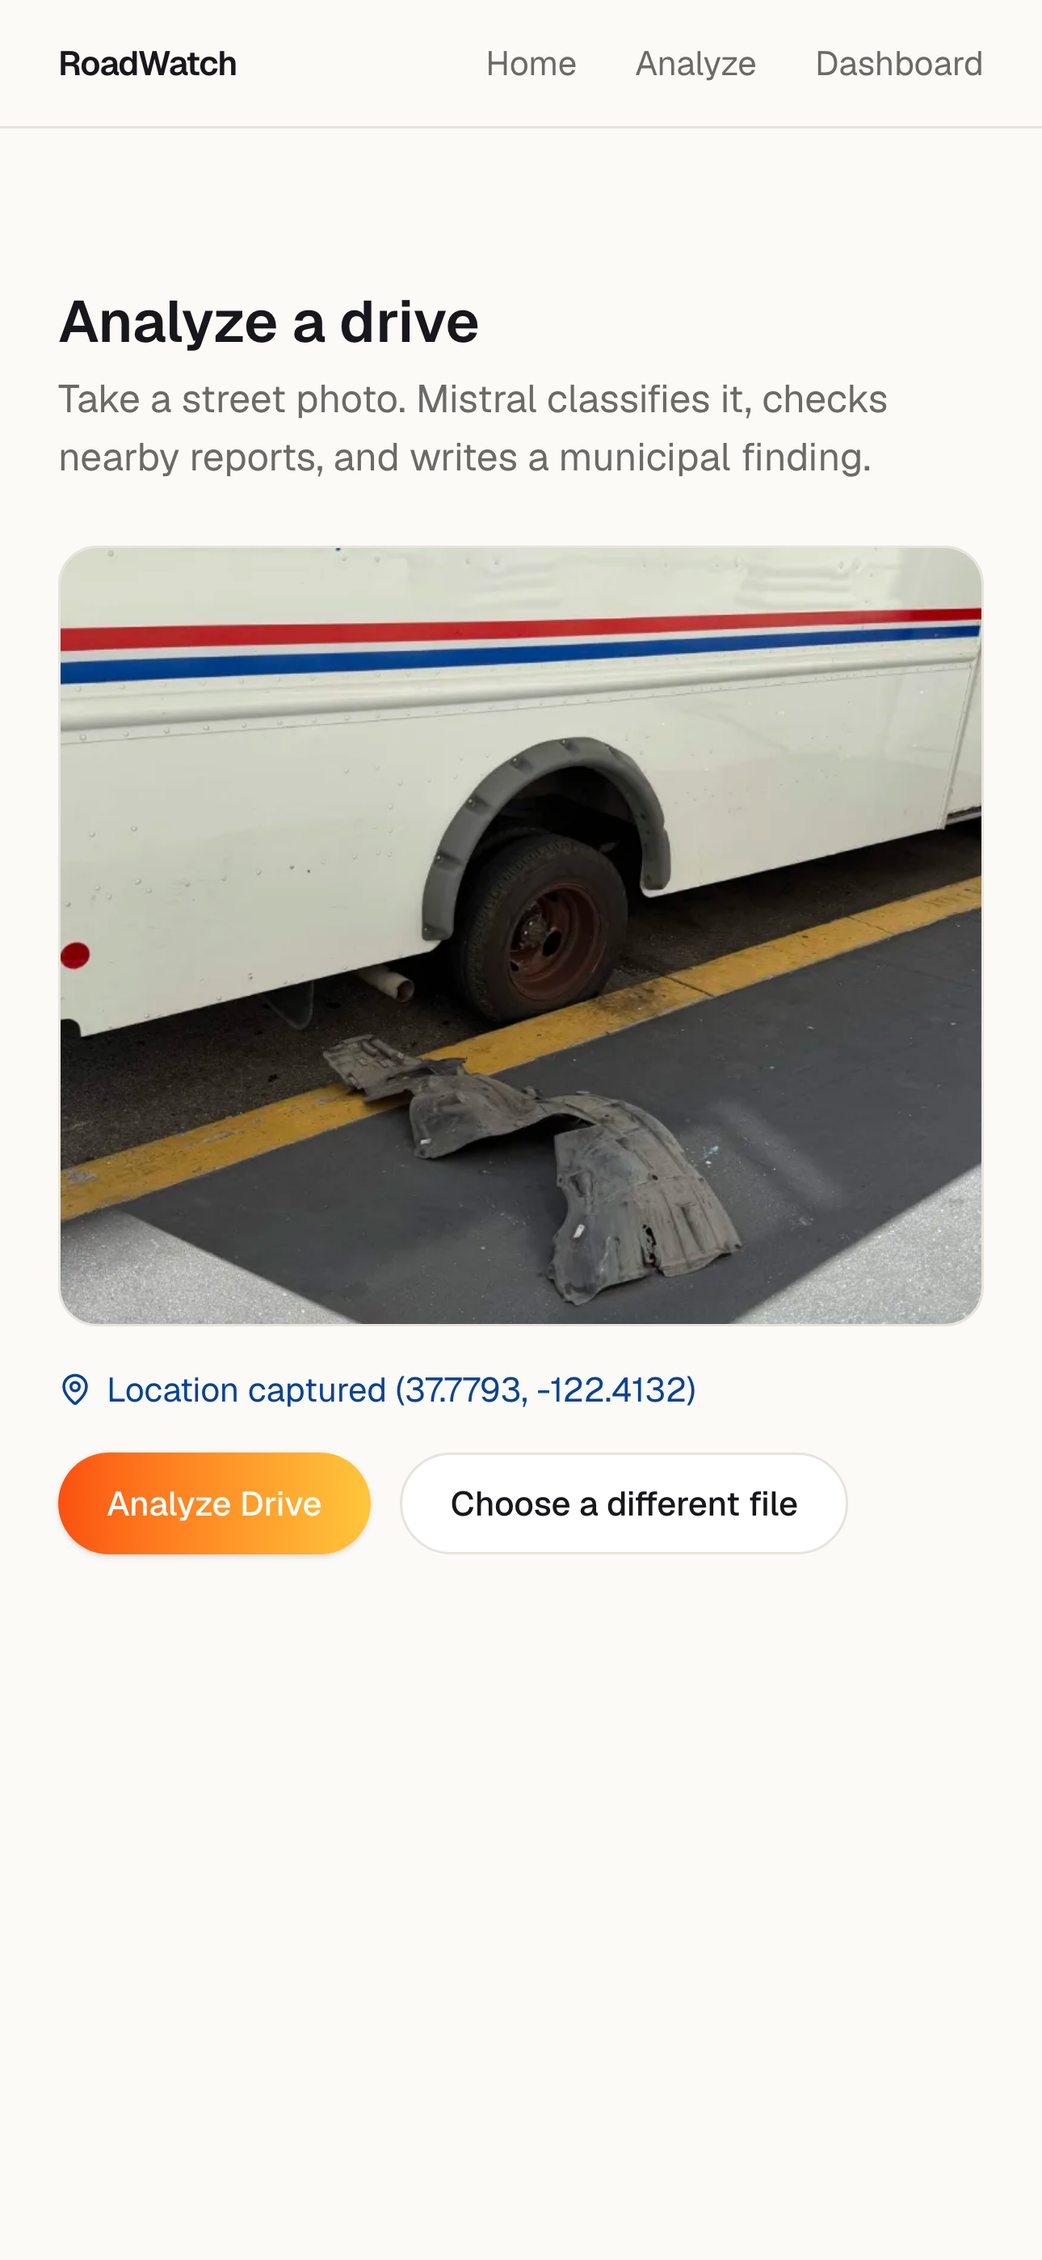
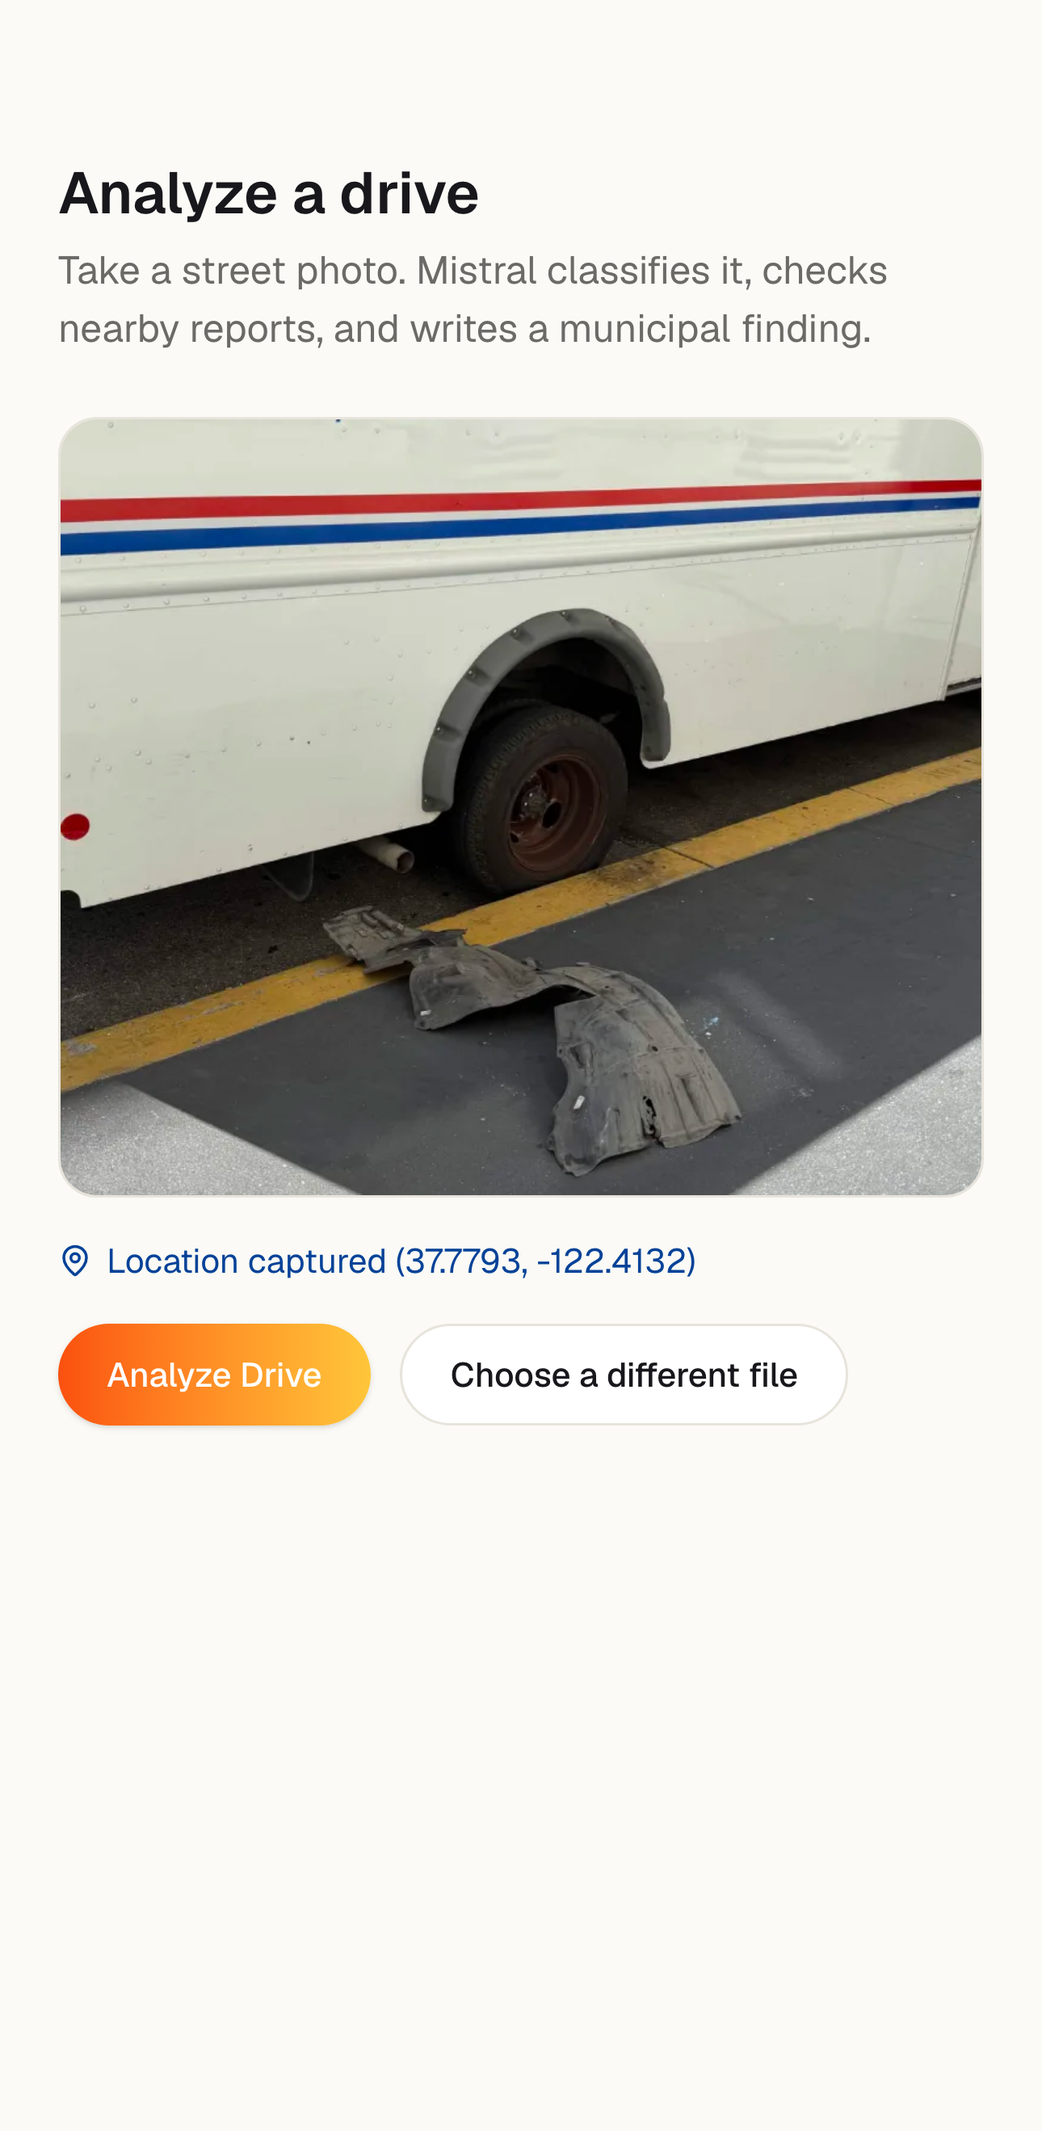
Rename RoadWatch to Roadar across the demo video and script
Product rename, scoped to demo/ — web-app/, backend/, ai-service/ and docs/
still say RoadWatch and need their own pass by their owners.

Two things the rename couldn't reach cleanly:

The three screenshots baked into the video show the old wordmark in the app
navbar. Rather than edit another workstream's UI, public/shots/ now holds
copies cropped 52 logical px from the top, removing the nav strip. The frames
read as a scrolled page. Drop the crop once web-app/ is renamed.

The `check` stage label reads "sf311 + roadar" while backend/app still emits
"sf311 + roadwatch". Flagged in data.ts so it isn't silently wrong — rename it
there and the pipeline trace is verbatim again.

CAL-ROADWATCH-2026-AUG-22 is left alone; it's Calafai's document reference,
not our product name.

Also replaces the voiceover script, which didn't fit. The old lines ran ~330
wpm against windows that hold ~167. Every line is now written to its measured
window, with numbers spelled out for text-to-speech and SF311 avoided in
narration since TTS reads it as "three hundred eleven". 428 words over 153.6s.

diff --git a/demo/remotion/src/scenes/Market.tsx b/demo/remotion/src/scenes/Market.tsx
@@ -178,7 +178,7 @@ export const MarketWedge: React.FC = () => {
               />
             ))}
 
-            {/* RoadWatch, upper right */}
+            {/* Roadar, upper right */}
             <div
               style={{
                 position: "absolute",
@@ -209,7 +209,7 @@ export const MarketWedge: React.FC = () => {
                   whiteSpace: "nowrap",
                 }}
               >
-                RoadWatch
+                Roadar
               </div>
             </div>
 
@@ -293,7 +293,7 @@ export const MarketStorm: React.FC = () => {
   const rows = [
     { label: "One coordinator, by hand", value: STORM.manualLimit, color: C.inkBorder, note: "12 min per event" },
     { label: "A storm week delivers", value: STORM.stormArrivals, color: C.critical, note: "≈3.2× calm volume" },
-    { label: "With RoadWatch", value: STORM.withRoadwatch, color: C.brandStart, note: "2 min per event", grad: true },
+    { label: "With Roadar", value: STORM.withRoadwatch, color: C.brandStart, note: "2 min per event", grad: true },
   ];
 
   return (
@@ -573,7 +573,7 @@ export const MarketValue: React.FC = () => {
               >
                 <Line label="Annual value to the city" value="$67.9K" delay={44} />
                 <div style={{ height: 22 }} />
-                <Line label="RoadWatch licence" value="$36K" delay={54} accent />
+                <Line label="Roadar licence" value="$36K" delay={54} accent />
                 <div
                   style={{
                     height: 1,
@@ -695,7 +695,7 @@ export const MarketPrivacy: React.FC = () => (
           },
           {
             t: "Maintenance purpose only",
-            d: "RoadWatch never contacts emergency services. Collisions are flagged for human review and stop there.",
+            d: "Roadar never contacts emergency services. Collisions are flagged for human review and stop there.",
           },
         ].map((c, i) => (
           <Rise key={c.t} delay={18 + i * 10} style={{ flex: 1 }}>

diff --git a/demo/remotion/src/data.ts b/demo/remotion/src/data.ts
@@ -9,7 +9,9 @@ export const PIPELINE = [
   { name: "see", label: "Classify the hazard", model: "mistral-small-latest", ms: 2976 },
   { name: "ocr", label: "Read text in frame", model: "mistral-ocr-latest", ms: 1015 },
   { name: "locate", label: "Resolve the street", model: "nominatim", ms: 225 },
-  { name: "check", label: "Check for duplicates", model: "sf311 + roadwatch", ms: 1837 },
+  // `model` here reads "sf311 + roadar" ahead of the backend: app/main.py still
+  // emits "sf311 + roadwatch" for this stage. Rename it there and this is verbatim.
+  { name: "check", label: "Check for duplicates", model: "sf311 + roadar", ms: 1837 },
   { name: "act", label: "Write the civic report", model: "mistral-small-latest", ms: 1214 },
 ] as const;
 
@@ -62,7 +64,7 @@ export const STORM = {
   withRoadwatch: 75,
   hoursReturned: 403,
   manualMinutes: 12,
-  roadwatchMinutes: 2,
+  roadarMinutes: 2,
   windowHours: 2.5,
 } as const;
 

diff --git a/demo/remotion/src/scenes/DemoFlow.tsx b/demo/remotion/src/scenes/DemoFlow.tsx
@@ -351,7 +351,7 @@ export const DemoDedupe: React.FC = () => {
               </div>
               <div style={{ height: 24 }} />
               <div style={{ fontSize: 25, lineHeight: 1.5, color: C.text }}>
-                Before anything is written, the proximity check runs against existing RoadWatch
+                Before anything is written, the proximity check runs against existing Roadar
                 rows <em>and</em> the live SF311 feed. The new sighting is linked to the open
                 event instead of opening a second one.
               </div>

diff --git a/demo/remotion/src/Root.tsx b/demo/remotion/src/Root.tsx
@@ -1,13 +1,13 @@
 import React from "react";
 import { Composition } from "remotion";
-import { RoadWatchDemo, SCENES, TOTAL_FRAMES } from "./Video";
+import { RoadarDemo, SCENES, TOTAL_FRAMES } from "./Video";
 import { FPS, H, W, s } from "./theme";
 
 export const RemotionRoot: React.FC = () => (
   <>
     <Composition
-      id="RoadWatchDemo"
-      component={RoadWatchDemo}
+      id="RoadarDemo"
+      component={RoadarDemo}
       durationInFrames={TOTAL_FRAMES}
       fps={FPS}
       width={W}

diff --git a/demo/remotion/src/scenes/Close.tsx b/demo/remotion/src/scenes/Close.tsx
@@ -114,7 +114,7 @@ export const Close: React.FC = () => {
         <div style={{ height: 40 }} />
 
         <Rise delay={34}>
-          <div style={{ fontSize: 34, fontWeight: 600, color: C.inkText }}>RoadWatch</div>
+          <div style={{ fontSize: 34, fontWeight: 600, color: C.inkText }}>Roadar</div>
           <div style={{ height: 12 }} />
           <div style={{ fontSize: 26, color: C.inkMuted }}>
             Mistral AI Hackathon · image-only MVP, live against a local stack

diff --git a/demo/remotion/src/Video.tsx b/demo/remotion/src/Video.tsx
@@ -63,7 +63,7 @@ export const SCENES = [
 export const TOTAL_FRAMES =
   SCENES.reduce((acc, sc) => acc + s(sc.sec), 0) - (SCENES.length - 1) * XF;
 
-export const RoadWatchDemo: React.FC = () => (
+export const RoadarDemo: React.FC = () => (
   <AbsoluteFill style={{ backgroundColor: C.bg }}>
     <TransitionSeries>
       {SCENES.map((scene, i) => (

diff --git a/demo/remotion/src/scenes/Title.tsx b/demo/remotion/src/scenes/Title.tsx
@@ -47,7 +47,7 @@ export const Title: React.FC = () => {
 
         <Rise delay={8}>
           <div style={{ fontSize: 128, fontWeight: 700, letterSpacing: -5, lineHeight: 1 }}>
-            RoadWatch
+            Roadar
           </div>
         </Rise>
 

diff --git a/demo/remotion/src/components/Frames.tsx b/demo/remotion/src/components/Frames.tsx
@@ -183,7 +183,7 @@ export const Watermark: React.FC = () => {
         opacity: o * 0.75,
       }}
     >
-      RoadWatch · Mistral AI Hackathon
+      Roadar · Mistral AI Hackathon
     </div>
   );
 };

diff --git a/demo/VOICEOVER.md b/demo/VOICEOVER.md
@@ -1,39 +1,130 @@
-# Voiceover script — RoadWatch demo
+# Voiceover script — Roadar demo
 
-The video renders silent. This script is timed to the cut, at a conversational
-~150 words/minute. Scene boundaries are the `Series` entries in
-`remotion/src/Video.tsx` — if you retime a scene there, retime the line here.
+TTS-ready. Numbers are spelled out so ElevenLabs can't misread them, and there
+is no markup inside the spoken lines.
 
-Total runtime **2:33.6** (4608 frames @ 30fps).
+Total runtime **2:33.60** (4608 frames @ 30fps). **428 words ≈ 167 wpm**, which
+is ElevenLabs' natural pace at speed 1.0.
 
-| # | Scene | In | Out | Line |
-|---|---|---|---|---|
-| 1 | `title` | 0:00 | 0:05.5 | "This is RoadWatch. It turns an ordinary street photo into a municipal hazard report — deduplicated, severity-scored, and routed to a named department." |
-| 2 | `problem-chain` | 0:05.5 | 0:13 | "Cities can't inspect every road continuously. Today a hazard only gets fixed if a human sees it, identifies it, categorises it, reports it, and tracks it. Every link is a place it gets dropped." |
-| 3 | `problem-scale` | 0:13 | 0:21 | "San Francisco alone logs four to six hundred pothole requests a month — triple that in storms. One physical hazard generates three to eight duplicate tickets, and the duplicate check that would catch them takes five to fifteen minutes and is the first thing skipped when it's busy." |
-| 4 | `demo-capture` | 0:21 | 0:28 | "So here's the whole input: point a phone at the street. It's mobile web — no install. The browser sends the photo plus GPS, and EXIF coordinates take priority when the image carries them." |
-| 5 | `demo-pipeline` | 0:28 | 0:38 | "This is a real run against our local stack. Five calls: Mistral vision classifies the hazard, Mistral OCR reads text in frame, we resolve the street, we check for duplicates against our own rows and the live SF311 feed, and a Mistral agent writes the municipal report. Seven point three seconds, end to end." |
-| 6 | `demo-agent-loop` | 0:38 | 0:46 | "It isn't one prompt. It's seven questions in order — what happened, how serious, where, already reported, how is it ranked, whose job is it, what do they need. Every step is inspectable in the response." |
-| 7 | `demo-result` | 0:46 | 0:55 | "The photo comes back as a typed record. Road debris, urgent, ninety-eight percent confidence, Stevenson Street, priority eighty-five out of a hundred, and the SF311 category. The same object drives the UI on the right." |
-| 8 | `demo-report` | 0:55 | 1:04 | "Then it's routed — San Francisco Public Works via SF311. The department comes from a lookup table, not the model; the model only writes the prose. Critical hazards and collisions never auto-submit." |
-| 9 | `demo-dedupe` | 1:04 | 1:13 | "A second report at the same spot doesn't become a second ticket. The proximity check runs before anything is written, and the new sighting links to the open event. This is the part that makes the queue believable to the person working it." |
-| 10 | `demo-negative` | 1:13 | 1:20 | "And it doesn't cry wolf. A clean street comes back hazard-detected false. Normal cracks, wet pavement and parked cars are explicitly not hazards, and nothing gets persisted." |
-| 11 | `demo-map` | 1:20 | 1:27 | "Everything lands on one prioritised public map, filterable by hazard type, severity and status." |
-| 12 | `market-intro` | 1:27 | 1:33 | "So who buys this, and for how much? We ran the market, operations and pricing analysis on the Calafai platform." |
-| 13 | `market-wedge` | 1:33 | 1:43 | "Detection is commoditising — the action layer is the product. Scan vendors are calibrated but a year out of date. Work-order systems detect nothing. When Waymo and Waze pushed five hundred potholes to five US metros this April, cities got a pin on a map: no dedupe, no severity, no department. Fast *and* routed is unoccupied." |
-| 14 | `market-storm` | 1:43 | 1:53 | "Here's the fact we'd lead with. One coordinator can hand-triage about twelve and a half events a day. A storm week delivers twenty-two. The desk breaks exactly when the city needs it most — and that's why the severity split isn't a preference, it's the correct answer. Four hundred and three coordinator hours back per year." |
-| 15 | `market-size` | 1:53 | 2:02 | "On market size we're pitching the honest number: thirty-five point eight million a year in US licence revenue, bottom-up from eight hundred and seven cities. Not the four-hundred-billion construction budget. A bounded number that survives diligence beats a hand wave." |
-| 16 | `market-value` | 2:02 | 2:11 | "A city of two-fifty thousand buys about sixty-eight thousand dollars of value a year. We price at thirty-six, so the surplus is visible. And we'll say the uncomfortable part: the claims component is the biggest and the least certain, so we validate it with a city risk office before quoting." |
-| 17 | `market-privacy` | 2:11 | 2:19 | "One thing we state before anyone asks. This is an infrastructure camera, not a surveillance camera. No person identification anywhere in the pipeline, city-owned lenses first, and we never contact emergency services." |
-| 18 | `recap` | 2:19 | 2:26 | "Three Mistral models — vision, OCR and an agent — plus a duplicate check and a full capture-to-submit surface." |
-| 19 | `close` | 2:26 | 2:33.6 | "From any camera to city action. Thanks to Calafai, who gave us the credits to run the strategy analysis." |
+Windows below are the *real* on-screen times: each transition overlaps its
+neighbours by 14 frames, so a scene's start is the running duration total minus
+the transitions before it. Regenerate them from the `SCENES` array in
+`remotion/src/Video.tsx` if you retime the cut.
 
-## Notes for recording
+## Per-scene blocks
 
-- Scenes 5, 9, 14 and 16 are the ones judges remember. Slow down there.
-- Scene 14 ("the desk breaks on the worst day") is the single strongest beat in
-  the market half — the Calafai analysis calls it the killer fact. Land it.
+Generate these separately — per-scene clips let you align each one to its window
+instead of letting drift compound across one long take.
+
+| # | Scene | In | Out | Window | Words |
+|---|---|---|---|---|---|
+| 1 | `title` | 0:00.00 | 0:05.53 | 5.53s | 15 |
+| 2 | `problem-chain` | 0:05.53 | 0:13.07 | 7.53s | 22 |
+| 3 | `problem-scale` | 0:13.07 | 0:21.10 | 8.03s | 25 |
+| 4 | `demo-capture` | 0:21.10 | 0:28.13 | 7.03s | 22 |
+| 5 | `demo-pipeline` | 0:28.13 | 0:38.17 | 10.03s | 29 |
+| 6 | `demo-agent-loop` | 0:38.17 | 0:46.20 | 8.03s | 24 |
+| 7 | `demo-result` | 0:46.20 | 0:54.73 | 8.53s | 23 |
+| 8 | `demo-report` | 0:54.73 | 1:03.27 | 8.53s | 23 |
+| 9 | `demo-dedupe` | 1:03.27 | 1:11.80 | 8.53s | 25 |
+| 10 | `demo-negative` | 1:11.80 | 1:19.33 | 7.53s | 21 |
+| 11 | `demo-map` | 1:19.33 | 1:25.87 | 6.53s | 15 |
+| 12 | `market-intro` | 1:25.87 | 1:31.90 | 6.03s | 17 |
+| 13 | `market-wedge` | 1:31.90 | 1:41.43 | 9.53s | 28 |
+| 14 | `market-storm` | 1:41.43 | 1:50.97 | 9.53s | 28 |
+| 15 | `market-size` | 1:50.97 | 2:00.00 | 9.03s | 25 |
+| 16 | `market-value` | 2:00.00 | 2:09.03 | 9.03s | 29 |
+| 17 | `market-privacy` | 2:09.03 | 2:17.07 | 8.03s | 23 |
+| 18 | `recap` | 2:17.07 | 2:24.60 | 7.53s | 18 |
+| 19 | `close` | 2:24.60 | 2:33.60 | 9.00s | 22 |
+
+### 1 · title
+
+> Roadar turns an ordinary street photo into a municipal hazard report. Deduplicated, severity-scored, department-routed.
+
+### 2 · problem-chain
+
+> Cities can't inspect every road. A hazard only gets fixed if a human sees it, names it, files it, and tracks it.
+
+### 3 · problem-scale
+
+> San Francisco logs six hundred pothole reports a month. One hazard spawns up to eight duplicates, and dedupe is the first thing dropped under load.
+
+### 4 · demo-capture
+
+> Here's the whole input: point a phone at the street. Mobile web, no install, and the photo's own GPS tags win when present.
+
+### 5 · demo-pipeline
+
+> This is a real run. Vision classifies the hazard. OCR reads the text. We resolve the street, check for duplicates, and an agent writes the report. Seven point three seconds.
+
+### 6 · demo-agent-loop
+
+> It isn't one prompt. It's seven questions in order. What happened, how serious, where, already reported, whose job, and what do they need.
+
+### 7 · demo-result
+
+> The photo comes back as a typed record. Road debris, urgent, ninety-eight percent confidence, Stevenson Street, priority eighty-five out of a hundred.
+
+### 8 · demo-report
+
+> Then it's routed to San Francisco Public Works. The department comes from a lookup table, not the model. Critical hazards never auto-submit.
+
+### 9 · demo-dedupe
+
+> A second report at the same spot doesn't become a second ticket. The proximity check runs first, and the sighting links to the open event.
+
+### 10 · demo-negative
+
+> And it doesn't cry wolf. A clean street comes back with no hazard. Cracks, wet pavement and parked cars don't count.
+
+### 11 · demo-map
+
+> Everything lands on one prioritized public map, filterable by hazard type, severity, and status.
+
+### 12 · market-intro
+
+> So who buys this, and for how much? We ran the market analysis on the Calafai platform.
+
+### 13 · market-wedge
+
+> Detection is commoditizing. The action layer is the product. Waymo and Waze sent five hundred potholes to five cities. Those cities got a pin on a map. Nothing routed.
+
+### 14 · market-storm
+
+> Here's our strongest fact. One coordinator can hand-triage about twelve events a day. A storm week delivers twenty-two. The desk breaks exactly when the city needs it most.
+
+### 15 · market-size
+
+> We're pitching the honest number. Thirty-six million a year in US license revenue, bottom-up from eight hundred cities. Not the four hundred billion construction budget.
+
+### 16 · market-value
+
+> A city of two hundred fifty thousand buys roughly sixty-eight thousand dollars of value a year. We price at thirty-six thousand. The claims piece is our least certain input.
+
+### 17 · market-privacy
+
+> One thing we say before anyone asks. This is an infrastructure camera, not a surveillance camera. No person identification anywhere in the pipeline.
+
+### 18 · recap
+
+> Three Mistral models. Vision, OCR, and an agent. Plus a duplicate check and a full capture-to-submit flow.
+
+### 19 · close
+
+> From any camera to city action. Roadar. And thanks to Calafai, who gave us the credits to run the strategy analysis.
+
+## Recording notes
+
+- Leave ElevenLabs speed at 1.0. If a clip overruns its window, cut a clause
+  rather than speeding it up — sped-up TTS is audibly wrong.
+- "SF311" is deliberately not spoken anywhere; TTS reads it as "three hundred
+  eleven". Scene 8 says "San Francisco Public Works" instead.
+- Scenes 5, 9 and 14 are the beats judges remember. Scene 14 is the strongest
+  in the market half — the Calafai analysis calls the storm-week saturation its
+  killer fact.
 - Scene 16's caveat is deliberate. Volunteering the weakest assumption reads as
-  rigour; a procurement analyst will find it anyway.
-- If you run long, cut scene 11 (`demo-map`, 7s) and scene 18 (`recap`, 8s)
-  first. Never cut 5, 9 or 14.
+  rigour; a procurement analyst finds it anyway.
+- Better workflow than trimming to fit: record first, measure each clip, then
+  set each scene's `sec` in `remotion/src/Video.tsx` to its clip length. Sync
+  becomes exact instead of approximate.

diff --git a/demo/README.md b/demo/README.md
@@ -1,4 +1,4 @@
-# `demo/` — RoadWatch demo video
+# `demo/` — Roadar demo video
 
 A 2:33 Remotion video: end-to-end product demo first, market analysis second.
 
@@ -22,7 +22,7 @@ a scene, copy it across from `screenshots/` first.
 
 ## Watch it
 
-`remotion/out/roadwatch-demo.mp4` — 1920×1080, 30fps, 22 MB.
+`remotion/out/roadar-demo.mp4` — 1920×1080, 30fps, 22 MB.
 
 ## Work on it
 
@@ -30,7 +30,7 @@ a scene, copy it across from `screenshots/` first.
 cd demo/remotion
 npm install
 npm run dev        # Remotion Studio, scrub the timeline
-npm run render     # → out/roadwatch-demo.mp4
+npm run render     # → out/roadar-demo.mp4
 ```
 
 Every scene is also registered as its own composition (`scene-demo-pipeline`,
@@ -74,6 +74,25 @@ One gotcha: **capture `04-analyze-preview.png` against a production build**
 double-invokes the effect in `web-app/src/components/upload/MediaPreview.tsx`,
 which revokes the object URL before the image loads — the preview renders as a
 broken-image icon. Production is unaffected.
+
+### The navbar crop
+
+The app still ships as **RoadWatch**; the video is **Roadar**. So the three
+captures under `public/shots/` are cropped copies with the nav strip removed,
+rather than the raw files in `screenshots/`:
+
+| file | cut from top |
+|---|---|
+| `04-analyze-preview.png` | 159 px (3× capture) |
+| `07-hazard-detail.png` | 106 px (2× capture) |
+| `10-dashboard-map.png` | 106 px (2× capture) |
+
+That's 52 logical px in every case — the nav's height including its bottom
+border. The frames read as a scrolled page, which is why no scene depends on the
+site header.
+
+**When `web-app/` is renamed, drop the crop.** Re-capture the three shots and
+copy them across uncropped; the wordmark will then agree with the narration.
 
 ## If you re-record with narration
 
